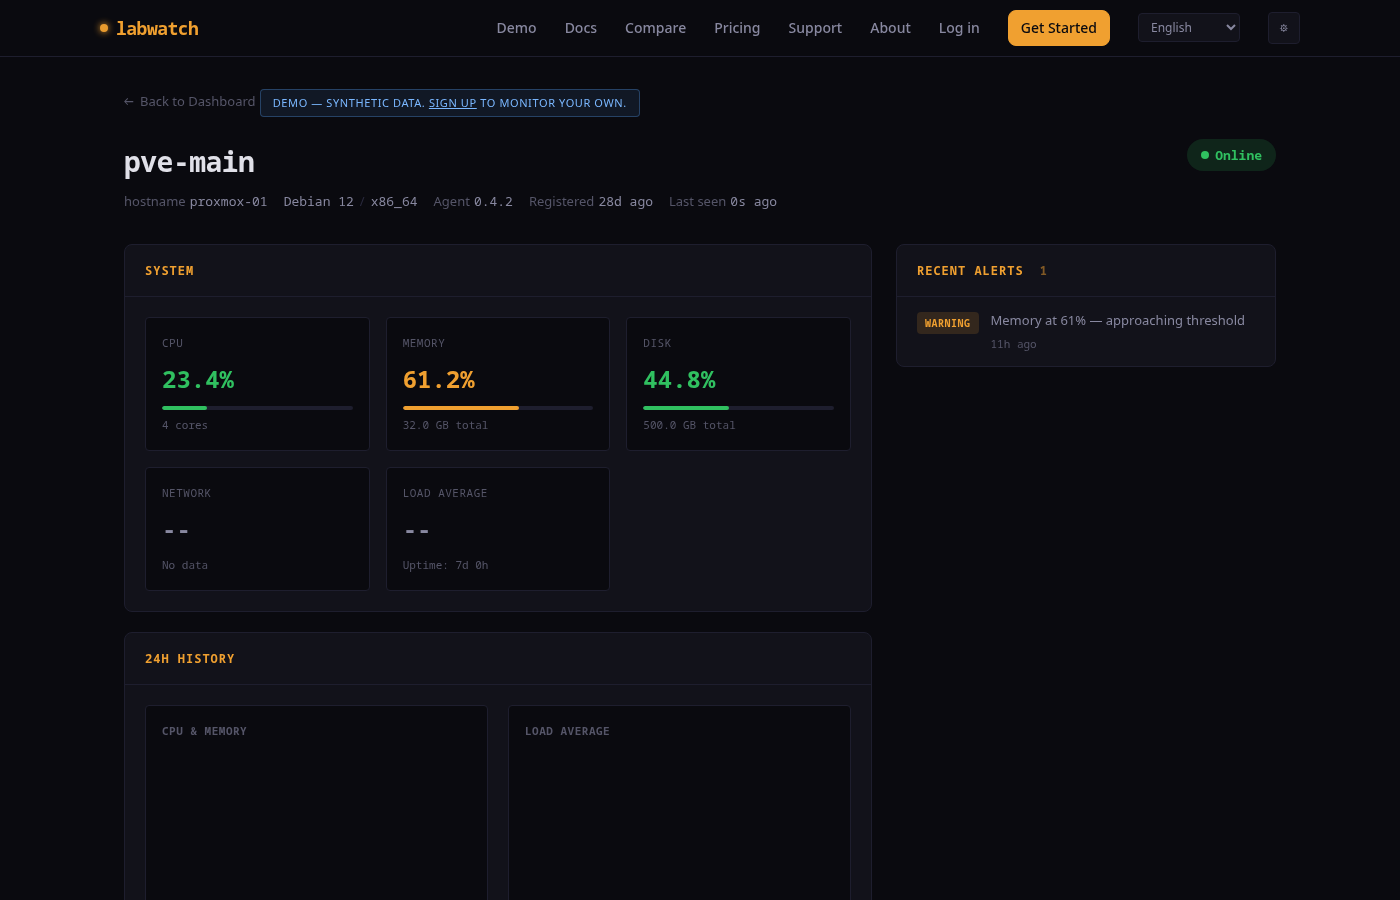
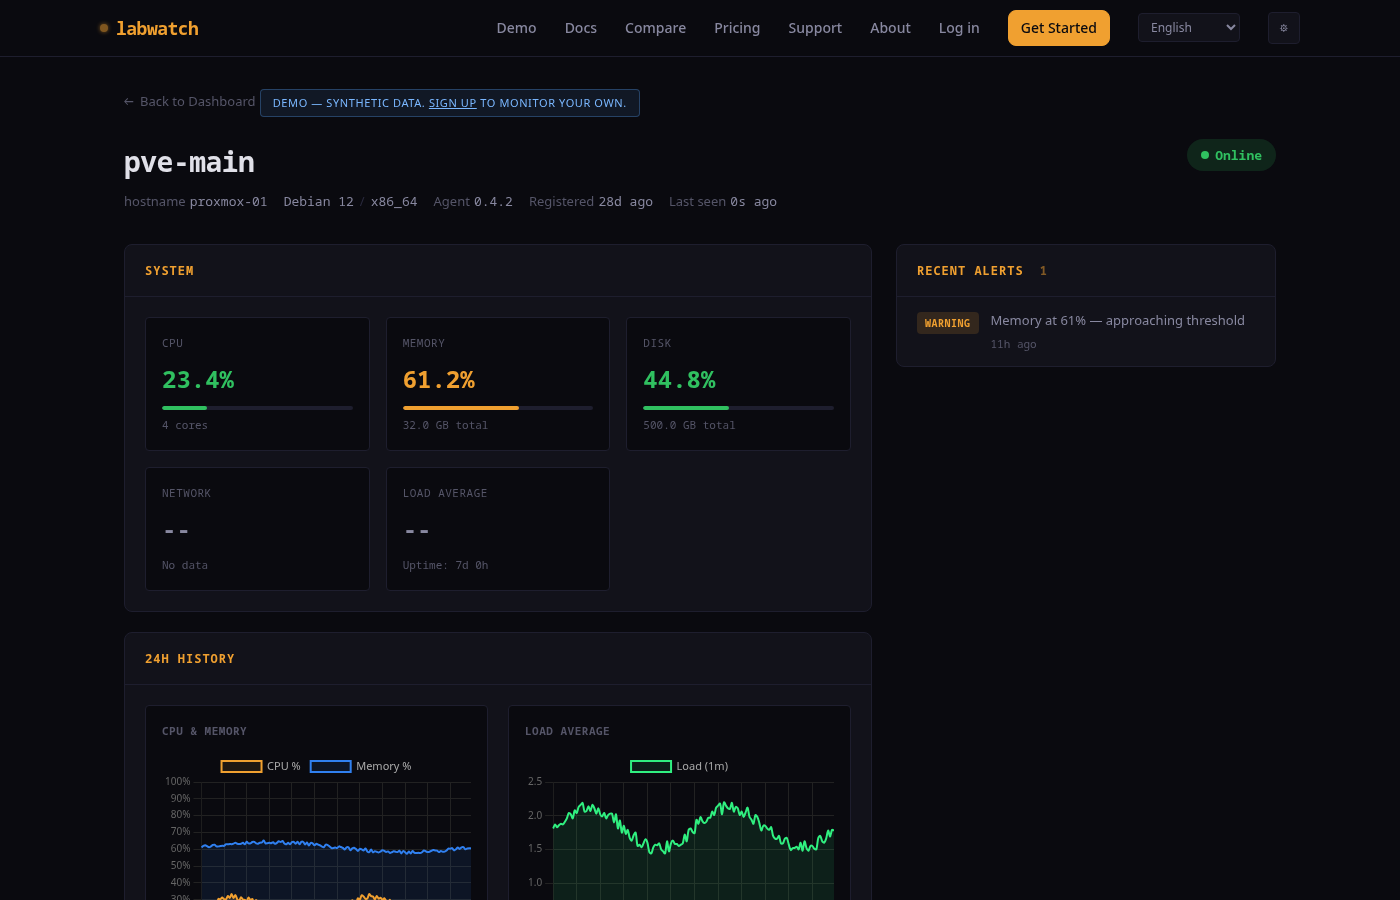
fix demo detail charts: return structured history data matching chart JS format
The demo history endpoint was returning a flat array of objects but the
chart JS expected {timestamps, cpu, memory, disk, load, net_rx, net_tx}.
Also includes synthetic network data for the network chart.

diff --git a/server/app.py b/server/app.py
@@ -1277,27 +1277,32 @@ def demo_lab_history(request: Request, lab_id: str):
 
     detail = _DEMO_LAB_DETAILS.get(lab_id)
     if not detail:
-        return []
+        return {"timestamps": [], "cpu": [], "memory": [], "disk": [], "load": []}
 
     now = datetime.utcnow()
     hours = int(request.query_params.get("hours", "24"))
     hours = max(1, min(hours, 168))
     points = min(hours * 6, 144)  # ~10min intervals, max 144 points
 
-    history = []
+    timestamps, cpu_data, memory_data, disk_data, load_data = [], [], [], [], []
+    net_rx_data, net_tx_data = [], []
     for i in range(points):
         t = now - timedelta(minutes=(points - i) * (hours * 60 / points))
         phase = i / points * math.pi * 4
         cpu_base = detail["_cpu"] or 15
         mem_base = detail["_mem"] or 40
-        history.append({
-            "timestamp": t.isoformat(),
-            "cpu_percent": round(max(0, cpu_base + 8 * math.sin(phase) + random.uniform(-2, 2)), 1),
-            "memory_percent": round(max(0, mem_base + 3 * math.sin(phase * 0.5) + random.uniform(-1, 1)), 1),
-            "disk_percent": detail["_disk"],
-            "load_1m": round(max(0, (detail["_load"] or 0.5) + 0.3 * math.sin(phase) + random.uniform(-0.1, 0.1)), 2),
-        })
-    return history
+        timestamps.append(t.isoformat())
+        cpu_data.append(round(max(0, cpu_base + 8 * math.sin(phase) + random.uniform(-2, 2)), 1))
+        memory_data.append(round(max(0, mem_base + 3 * math.sin(phase * 0.5) + random.uniform(-1, 1)), 1))
+        disk_data.append(detail["_disk"])
+        load_data.append(round(max(0, (detail["_load"] or 0.5) + 0.3 * math.sin(phase) + random.uniform(-0.1, 0.1)), 2))
+        net_rx_data.append(round(random.uniform(0.5, 15.0), 2))
+        net_tx_data.append(round(random.uniform(0.1, 5.0), 2))
+    return {
+        "timestamps": timestamps, "cpu": cpu_data, "memory": memory_data,
+        "disk": disk_data, "load": load_data,
+        "net_rx": net_rx_data, "net_tx": net_tx_data,
+    }
 
 
 # ---------------------------------------------------------------------------
